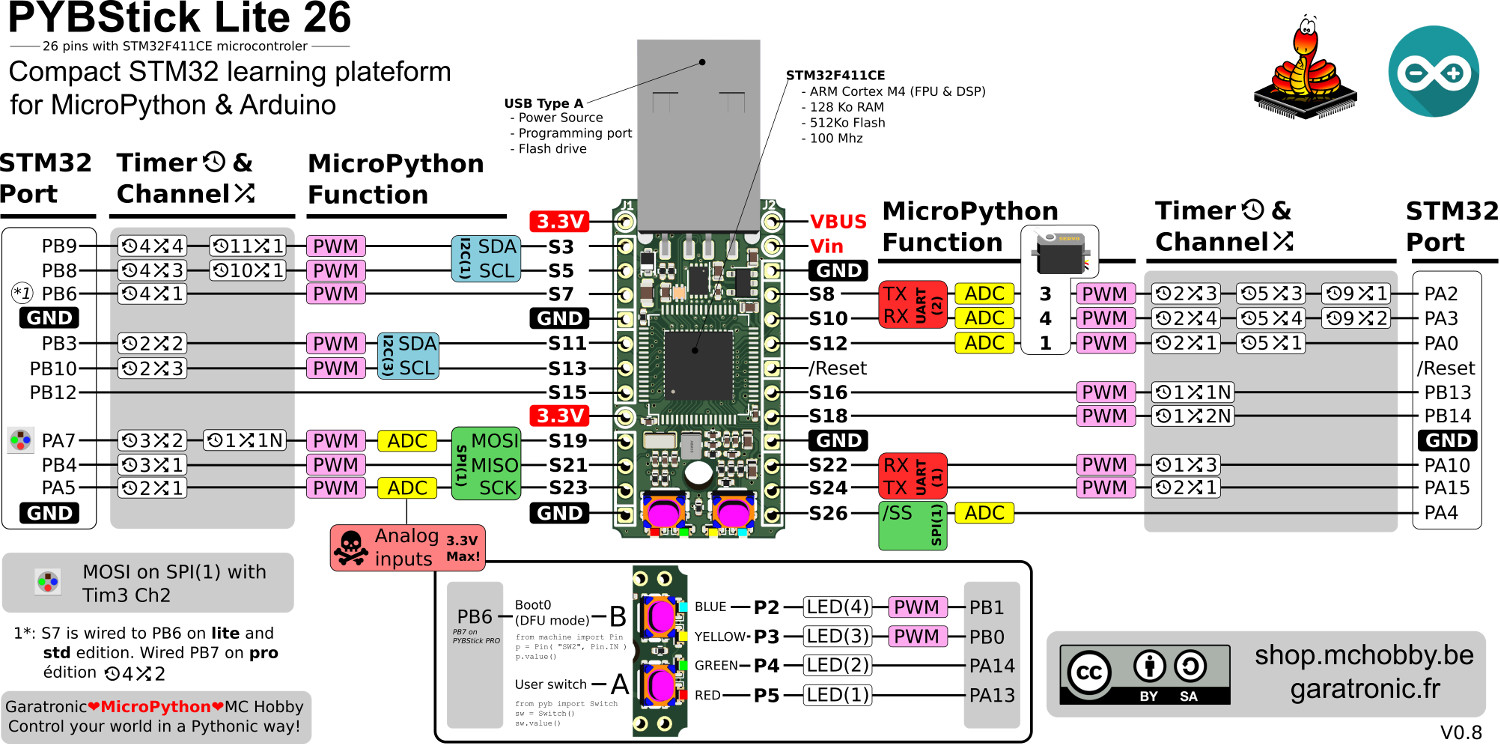
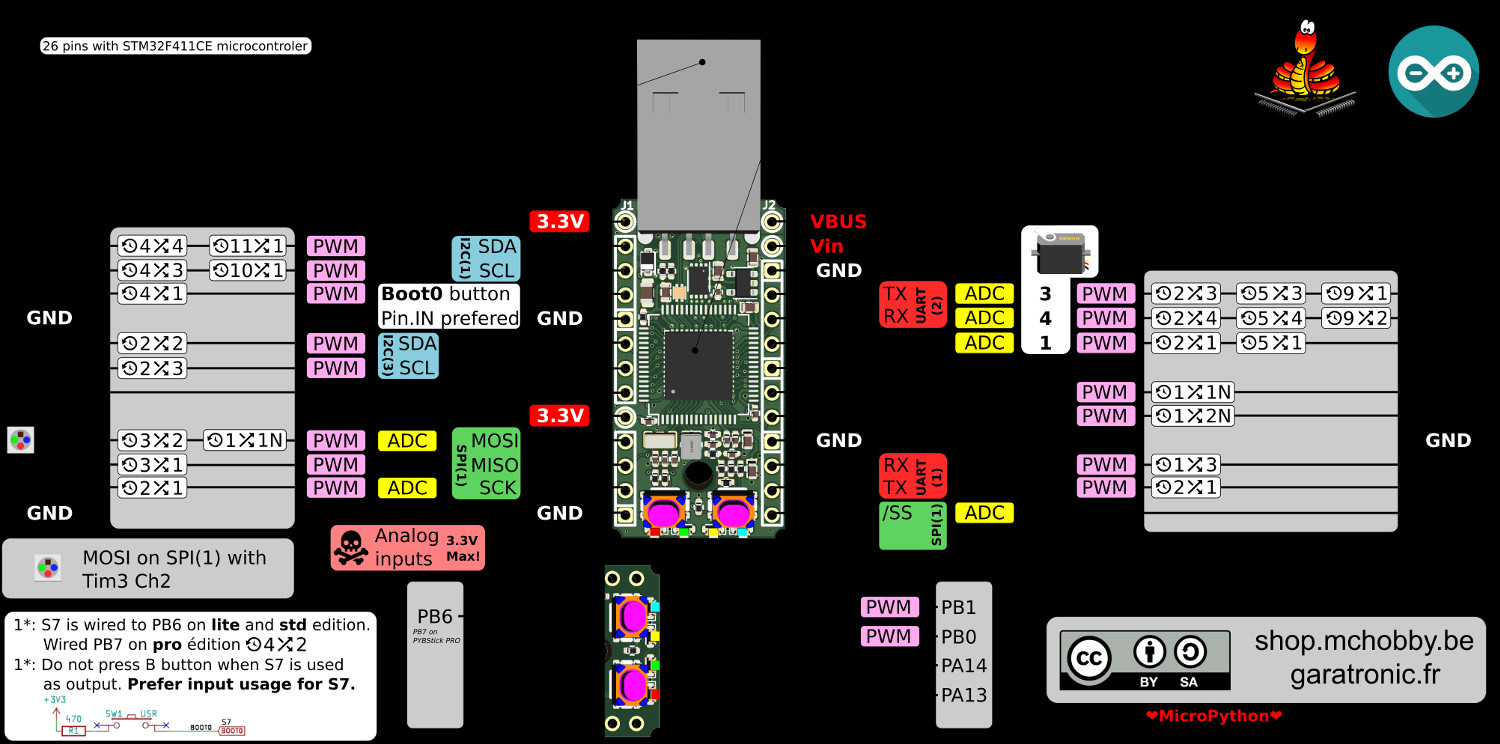
PYBStick: update documentation

diff --git a/PYBStick/readme.md b/PYBStick/readme.md
@@ -105,6 +105,10 @@ Il est possible de réutiliser ce bouton dans vos propres scripts utilisateur. V
 1
 ```
 
+__Attention:__ Boot0, donc le bouton B, est branché sur la broche S7. Lorsque le bouton B est pressé, S7 est connecté sur +3.3V par l'intermédiaire d'une résistance de 470 Ohms.
+
+C'est pour cette raison qu'__il est vivement recommandé d'utilisé S7 en entrée__. Si S7 est utilisé en sortie alors il ne faut pas utiliser le bouton B durant le fonctionnement de votre script.
+
 ## LEDs utilisateurs
 
 La PYBStick, tout comme la Pyboard originale dispose de 4 LEDs de couleurs qui peuvent être contrôlées depuis le script utilisateur.
@@ -564,6 +568,10 @@ Envie de faire vos propres schéma à base de PYBStick? Pas de problème, nous a
 * [PYBStick-Lite-26-template(640px).png](docs/_statics/PYBStick-Lite-26-template(640px).png) - 640 pixels de haut
 * [PYBStick-Lite-26-template(800px).png](docs/_statics/PYBStick-Lite-26-template(800px).png) - 800 pixels de haut
 * [PYBStick-Lite-26-template.png](docs/_statics/PYBStick-Lite-26-template.png) - la plus haute résolution, 2700 pixels de haut
+
+__Composant Fritzing:__
+
+Un composant Fritzing est disponible pour la PYBStick, vous le trouverez dans le répertoire [`docs/fritzing/`](docs/fritzing/)
 
 ## 3D - Case basique
 

diff --git a/PYBStick/docs/fritzing/readme.md b/PYBStick/docs/fritzing/readme.md
@@ -1,0 +1,5 @@
+# PYBStick - composant fritzing
+
+Le composant Fritzing à été réalisé à l'aide du tutoriel
+
+https://www.aranacorp.com/fr/creer-un-composant-dans-fritzing/
